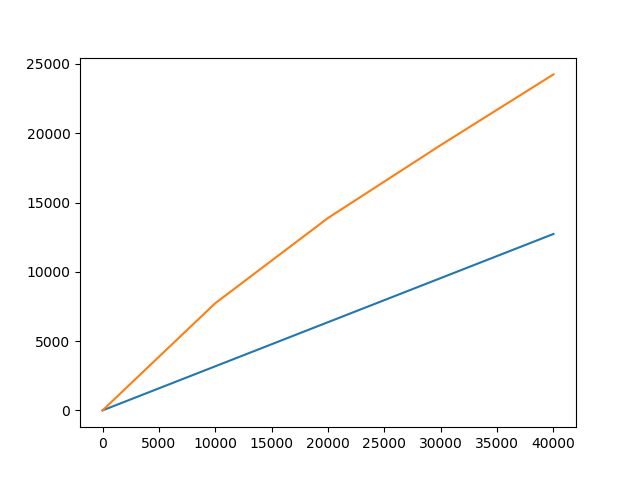
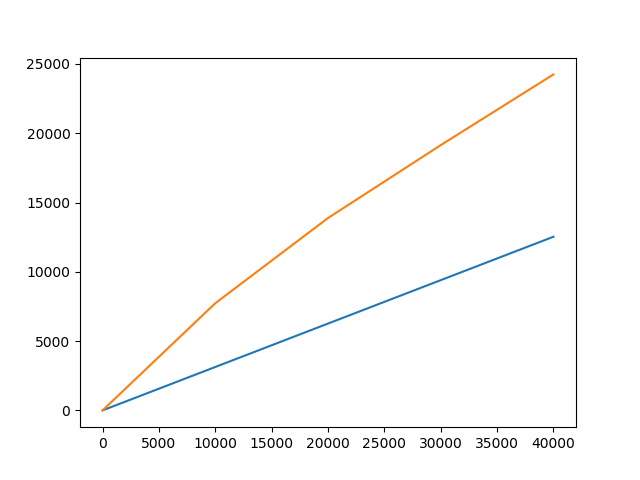
fixed rates

diff --git a/core.py b/core.py
@@ -5,7 +5,7 @@ PENSION_RATE = 0.07  # 7% off bruto, must be at least 6%
 HEALTH_INS = [0.031, 0.05]
 HISHTALMUT_RATE = 0.025  # 2.5% off bruto
 EMPLOYER_HISHTALMUT = 0.075
-EMPLOYER_PENSION = 0.1483  # 6% by law, and 8.33% severance fees
+EMPLOYER_PENSION = 0.1433  # 6% by law, and 8.33% severance fees
 SOCIAL_INS = [0.04, 0.07]
 AVG_INCOME = 9907
 SIXTYPERC_AVG_INCOME = int(0.6 * AVG_INCOME)  # social and health insurance fee blocks depend on 60% avg national income
@@ -29,7 +29,6 @@ def income_tax_deduction(bruto):
 
 # calculates fee for health or social insurance, flag true for health ins., flag false for social ins.
 def calc_ins_fee(bruto, flag):
-    # print(str(bruto) + " " + str(SIXTYPERC_AVG_INCOME))
     if bruto < SIXTYPERC_AVG_INCOME:
         return HEALTH_INS[0] * bruto if flag else SOCIAL_INS[0] * bruto
     res = HEALTH_INS[0] if flag else SOCIAL_INS[0]
